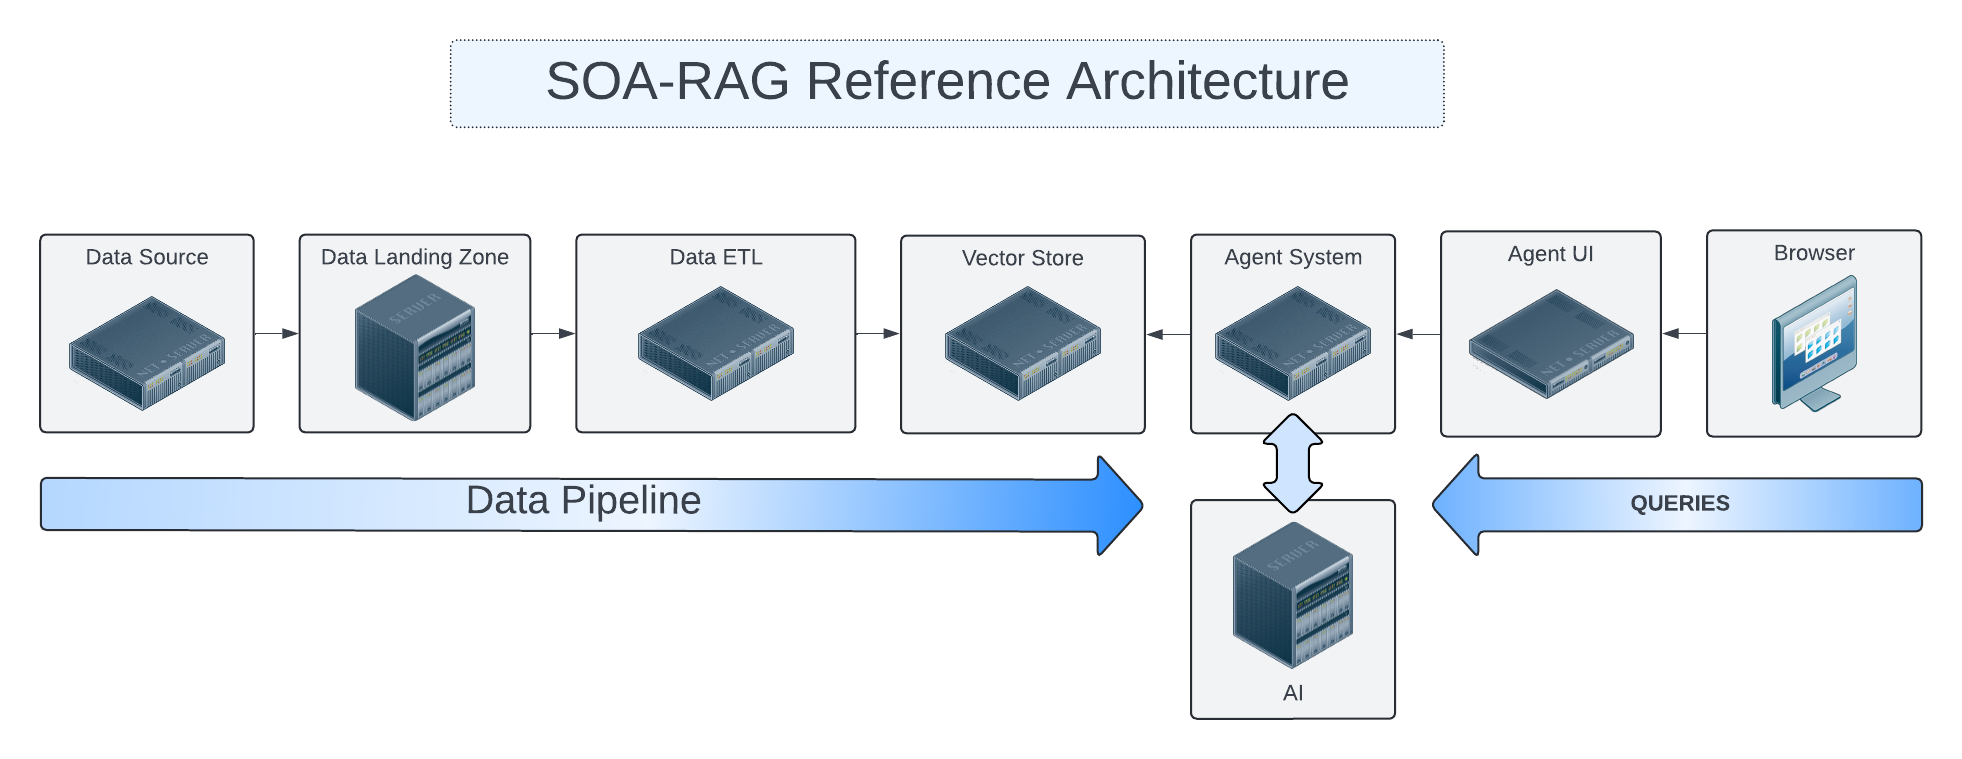
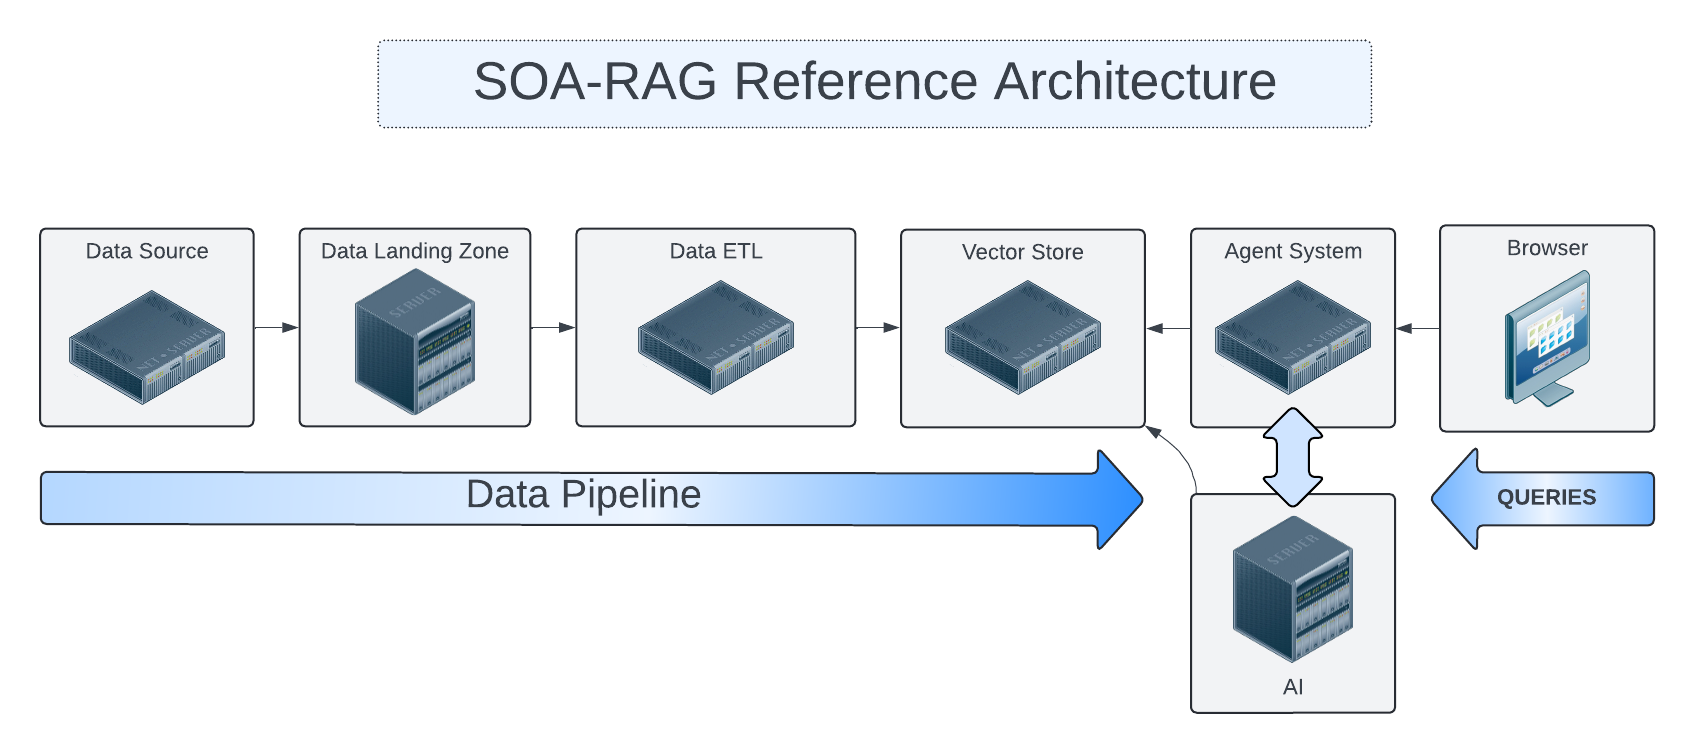
Update article

diff --git a/README.md b/README.md
@@ -10,8 +10,7 @@ We’ll start with high level design theory, then discuss an
 implementation.
 
 <figure>
-<img src="./assets/images/SeperationOfConcerns.png"
-alt="SeperationOfConcerns" />
+<img src="./assets/images/NoBanner.png" alt="NoBanner" />
 </figure>
 
 # High Level
@@ -82,23 +81,28 @@ embedded store for the LLM.
 
 # Demo
 
+Now that we’ve covered the high level design, lets build our demo
+implementation and deploy it. We’ve taken care to curate several of the
+components as Dockers. Leaving the initial data generation as a small
+Java tool we can execute from the command line, and our Agent system -
+which we’d like to dive deep into.
+
+<figure>
+<img src="./assets/images/Deployment.png" alt="Deployment" />
+</figure>
+
 Build our demo project:
 
 ``` bash
+cd agentSystem
 mvn clean install
 ```
 
-To setup ETL, Agent, and Agent-UI systems as Dockerized Containers:
+To setup ETL as a Dockerized Container:
 
 ``` bash
 cd ETLDocker/target
 docker build -t etl .
-
-cd AppDocker/target
-docker build -t agent .
-
-cd AppUIDocker
-docker build -t agent-ui:v1 .
 ```
 
 Start supporting services:
@@ -126,14 +130,8 @@ Setup Apache Karaf:
 
 Install feature: feature:repo-add
 mvn:com.savoir.soa.rag.ref.arch/AppFeature/1.0.0-SNAPSHOT/xml/features
-
-Test Chroma docker run -p 8000:8000 -d --rm --name chromadb
-chromadb/chroma:0.5.13
-
-Test LocalAI: docker run -p 8080:8080 --name local-ai -ti
-localai/localai:latest-aio-cpu
-
-UI - set URI Agent - set DB and AI
+feature:install agent feature:install war install -s
+webbundle:mvn:com.savoir.soa.rag.ref.arch/AppWar/\${project.version}/war?Web-ContextPath=chat
 
 Sample message body sent to reservations queue.
 
